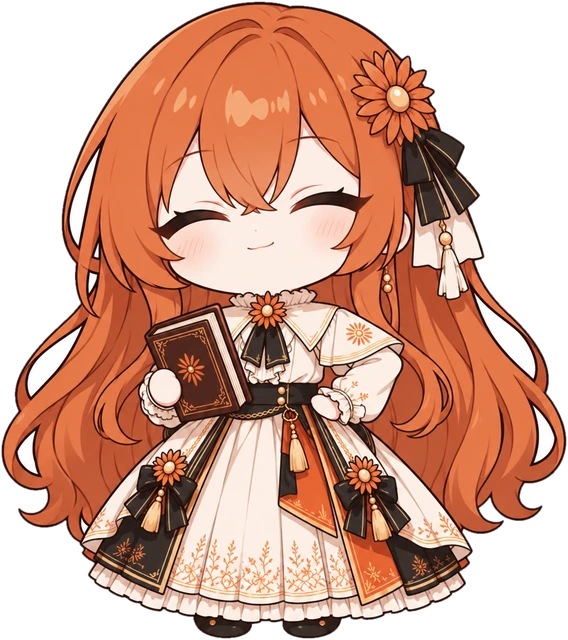
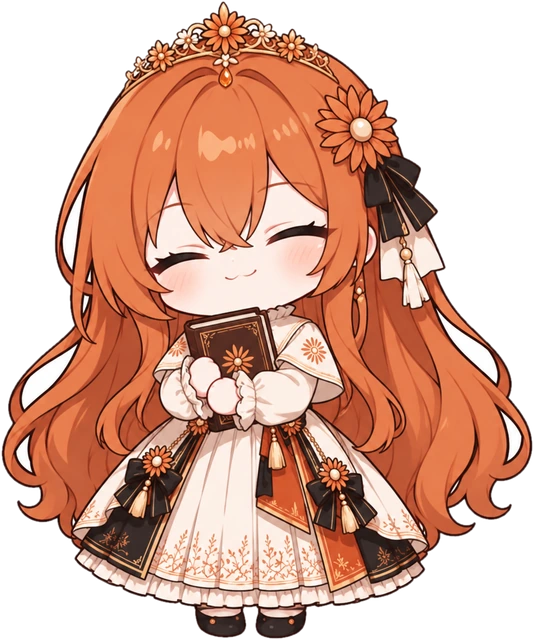
1.0.14：新立绘——皇冠、压缩上下文、社区梗动作
- 四个角色的皇冠版 proud（立绘自带皇冠，特效改用 victory，不再叠画特效皇冠）
- 四个角色的 compact（DeepSeek 一张腿部结构有误的已弃用）
- Claude clawd / sorry，GPT reset，DeepSeek feast，Gemini 香蕉 drawing / float
- prepare.py：去掉生图 AI 画的漂浮汗滴、速度线、闪光碎片和贴地影子
- README 配图和介绍更新

diff --git a/tools/prepare.py b/tools/prepare.py
@@ -1,16 +1,81 @@
 #!/usr/bin/env python3
 """把一张白底立绘处理成桌宠用的透明 WebP。
     python3 tools/prepare.py <输入图> <角色id> <姿态名>   → characters/<角色id>/<姿态名>.webp
-做的事：抠掉和图片边缘连通的白底（衣服里的白色不会被抠）→ 裁掉空白 → 统一缩放到 640 高（所有姿态同尺度）→ 存 WebP。
+做的事：抠掉和图片边缘连通的白底（衣服里的白色不会被抠）→ 去掉飘在空中的小碎片（生图 AI 常画的汗滴、速度线、闪光）
+和贴地的扁平影子 → 裁掉空白 → 统一缩放到 640 高（所有姿态同尺度）→ 存 WebP。
 """
 import sys
 from collections import deque
 from pathlib import Path
 
+import numpy as np
+import numpy as np
 from PIL import Image, ImageFilter
+from scipy import ndimage
+from scipy import ndimage
 
 CHARACTERS = Path(__file__).resolve().parent.parent / "characters"
 TARGET_H = 640
+
+
+def drop_debris(mask: Image.Image) -> Image.Image:
+    """只留人物主体和够大的道具：比主体 0.4% 还小的碎块（汗滴、速度线、闪光）去掉；
+    又扁又宽、贴在主体脚下的一块（地面影子）也去掉，App 会自己画影子。"""
+    a = np.array(mask) > 0
+    labels, n = ndimage.label(a)
+    if n <= 1:
+        return mask
+    areas = ndimage.sum(a, labels, range(1, n + 1))
+    main = int(np.argmax(areas)) + 1
+    boxes = ndimage.find_objects(labels)
+    my = boxes[main - 1][0]
+    main_h = my.stop - my.start
+    keep = np.zeros(n + 1, bool)
+    keep[main] = True
+    dropped = 0
+    for i in range(1, n + 1):
+        if i == main:
+            continue
+        ys, xs = boxes[i - 1]
+        h, w = ys.stop - ys.start, xs.stop - xs.start
+        shadow = h < main_h * 0.08 and w > h * 3 and ys.start > my.start + main_h * 0.8
+        if areas[i - 1] >= areas[main - 1] * 0.004 and not shadow:
+            keep[i] = True
+        else:
+            dropped += 1
+    if dropped:
+        print(f"  去掉 {dropped} 块碎片 / 影子")
+    return Image.fromarray(np.where(keep[labels], 255, 0).astype(np.uint8), "L")
+
+
+def drop_debris(mask: Image.Image) -> Image.Image:
+    """只留人物主体和够大的道具：比主体 0.4% 还小的碎块（汗滴、速度线、闪光）去掉；
+    又扁又宽、贴在主体脚下的一块（地面影子）也去掉，App 会自己画影子。"""
+    a = np.array(mask) > 0
+    labels, n = ndimage.label(a)
+    if n <= 1:
+        return mask
+    areas = ndimage.sum(a, labels, range(1, n + 1))
+    main = int(np.argmax(areas)) + 1
+    boxes = ndimage.find_objects(labels)
+    my = boxes[main - 1][0]
+    main_h = my.stop - my.start
+    keep = np.zeros(n + 1, bool)
+    keep[main] = True
+    dropped = 0
+    for i in range(1, n + 1):
+        if i == main:
+            continue
+        ys, xs = boxes[i - 1]
+        h, w = ys.stop - ys.start, xs.stop - xs.start
+        shadow = h < main_h * 0.08 and w > h * 3 and ys.start > my.start + main_h * 0.8
+        if areas[i - 1] >= areas[main - 1] * 0.004 and not shadow:
+            keep[i] = True
+        else:
+            dropped += 1
+    if dropped:
+        print(f"  去掉 {dropped} 块碎片 / 影子")
+    return Image.fromarray(np.where(keep[labels], 255, 0).astype(np.uint8), "L")
 
 
 def prepare(src: str, character: str, name: str) -> Path:
@@ -38,6 +103,8 @@ def prepare(src: str, character: str, name: str) -> Path:
         for nx, ny in ((x + 1, y), (x - 1, y), (x, y + 1), (x, y - 1)):
             if 0 <= nx < w and 0 <= ny < h and not seen[ny * w + nx]:
                 q.append((nx, ny))
+    mask = drop_debris(mask)
+    mask = drop_debris(mask)
     mask = mask.filter(ImageFilter.MinFilter(3)).filter(ImageFilter.GaussianBlur(1))
     im.putalpha(mask)
     im = im.crop(im.getbbox())

diff --git a/tools/readme_images.py b/tools/readme_images.py
@@ -29,8 +29,10 @@ HERO = [
 ]
 ACTIONS = [
     ("claude", "reading", "我看看这里写了什么", None), ("gpt", "running", "跑一下测试。", None),
-    ("deepseek", "eat", "开饭啦！白饭最好吃～", None), ("gemini", "drawing", "画画喵～", None),
-    ("claude", "proud", "大活干完了！", None), ("gpt", "searching", "查一查。", None),
+    ("deepseek", "feast", "有钱啦！再来十碗！", None), ("gemini", "drawing", "Nano Banana，启动！", None),
+    ("claude", "proud", "大活干完了！", None), ("gpt", "reset", "reset 了。今天可以多写一点。", None),
+    ("deepseek", "compact", "塞、塞不下了！", None), ("gemini", "float", "反——重——力——喵～", None),
+    ("claude", "clawd", "Clawd 也在陪我～", None), ("gpt", "searching", "查一查。", None),
     ("deepseek", "swim", "咕噜咕噜～", None), ("gemini", "delegating", "交给分身喵", None),
 ]
 EGGS = [

diff --git a/README.md b/README.md
@@ -15,10 +15,14 @@
 
 ![思考、读文件、跑命令、吃饭、画画、大成功、查资料、游泳、派子任务等动作](docs/images/actions.webp)
 
-- **跟着 AI 干活**：思考、读文件、写代码、跑命令、上网查资料、画图、派子任务、出错、完成。每个状态都有一张立绘，身边配一个小动画（小终端、浏览器、画板、任务清单……）。一轮里用了 8 次以上工具的大活干完，她会戴上皇冠得意一下。
+- **跟着 AI 干活**：思考、读文件、写代码、跑命令、上网查资料、画图、派子任务、出错、完成。每个状态都有一张立绘，身边配一个小动画（小终端、浏览器、画板、任务清单……）。一轮里用了 8 次以上工具的大活干完，她会戴上自己的皇冠得意一下；AI 压缩上下文时，她会把一大堆东西往小箱子里硬塞。
 - **看着额度**：名牌下面显示 Claude 的 5 小时 / 每周额度、GPT 的 Codex 额度、DeepSeek 的账户余额、Gemini 的 Antigravity 额度。快用完时她会露出累了的样子。
 - **自己待着**：闲着会哼歌、伸懒腰、打哈欠，十分钟没动静就睡着。单击摸摸头，右键能戳她一下。
-- **各有性格**：DeepSeek 闲着会扒白饭、摸鱼、游泳，被戳会生气，想得太久会揉太阳穴。
+- **各有性格，还懂社区梗**：
+  - **Claude**：闲着会抱着 Clawd 发呆；刚出错就被你纠正时，会先来一句「You're absolutely right!」
+  - **GPT**：Codex 额度在该重置之前突然满血（reset）时，平时冷静的她会难得地笑出来
+  - **DeepSeek**：闲着会扒白饭、摸鱼、游泳，被戳会生气，想得太久会揉太阳穴；余额变多时抱着比脑袋还大的饭碗开吃
+  - **Gemini**：生图时拿香蕉当画笔（Nano Banana）；闲着会反重力飘起来
 
 ## 支持的 AI
 
